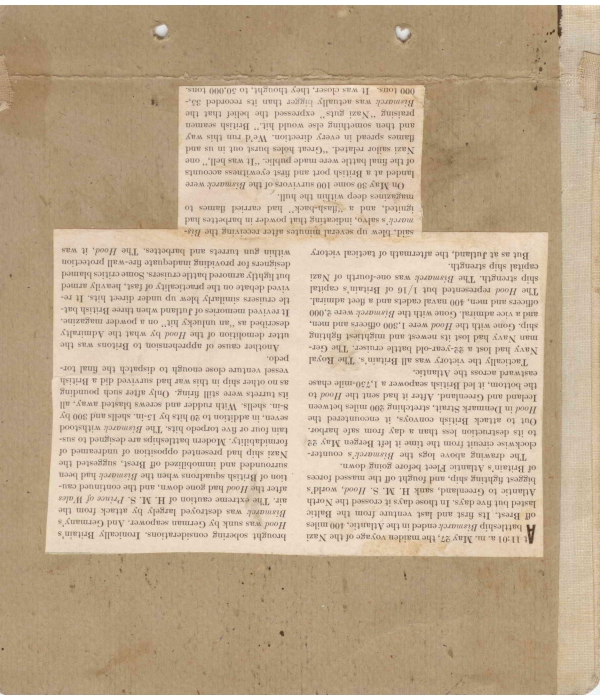
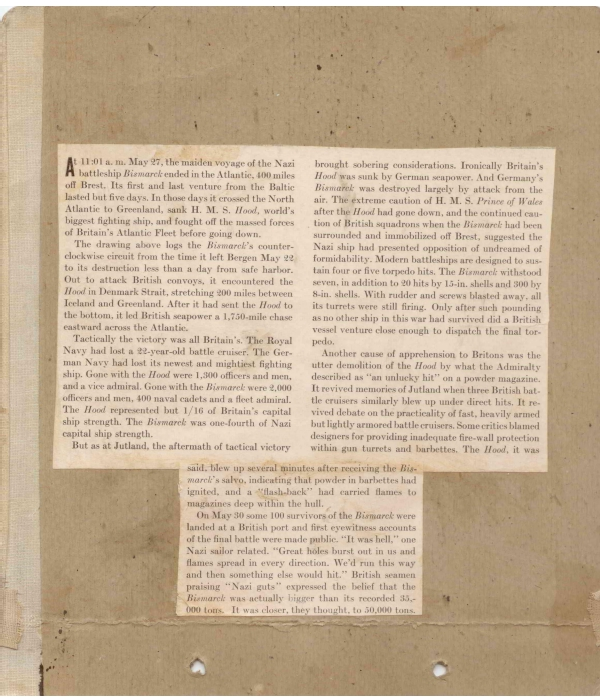
wip

diff --git a/build.js b/build.js
@@ -24,14 +24,20 @@ function main (callback) {
                     return LWIP.open(PATH.join(pagesBasePath, "raw", file), function(err, image) {
                         if (err) return callback(err);
 
-                        image
-                            .batch()
+                        var step = image;
+
+                        step = step.batch()
                             .crop(10, 10, 2333, 2683)
-                            .contain(600, 700, "white")
-                            .writeFile(targetPath, function(err) {
-                                if (err) return callback(err);
-                                return callback();
-                            });
+                            .contain(600, 700, "white");
+
+                        if (file === "page_02.jpg") {
+                            step = step.rotate(180, "white");
+                        }
+
+                        return step.writeFile(targetPath, function(err) {
+                            if (err) return callback(err);
+                            return callback();
+                        });
                     });
                 });
             });

diff --git a/client.js b/client.js
@@ -17,8 +17,8 @@ exports.main = function () {
 				acceleration: true,
 				gradients: !JQUERY.isTouch,
 				elevation: 50,
-				width: 1300,
-				height: 800,
+				width: 1000,
+				height: 700,
 				when: {
 					turned: function(e, page) {
 						/*console.log('Current view: ', $(this).turn('view'));*/
